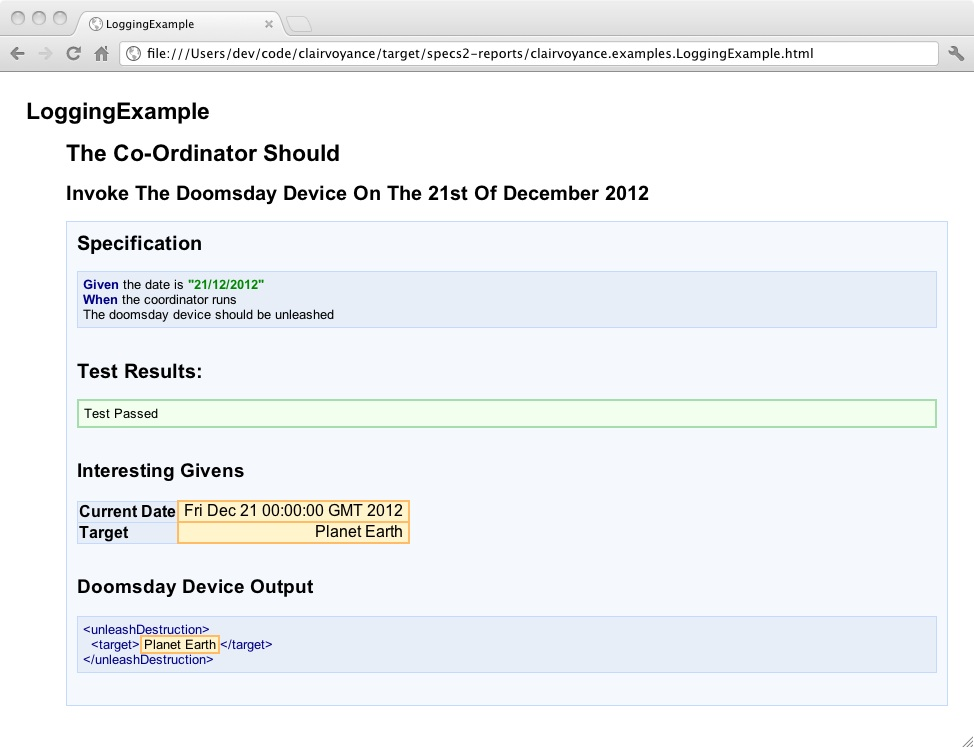
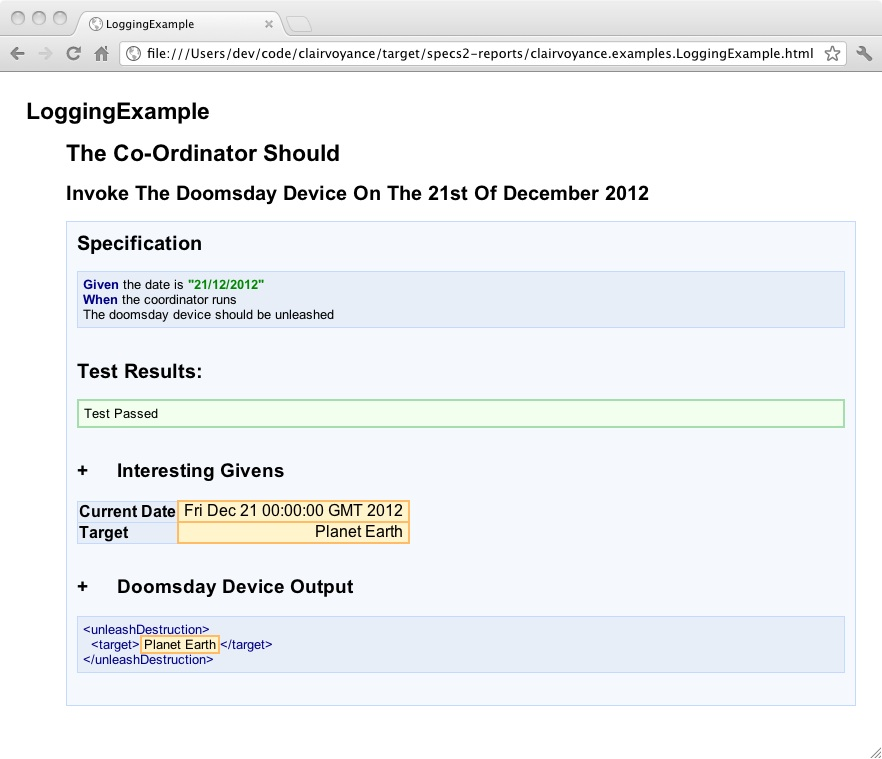
Fixed an issue where captured values were in the wrong sequence. Added a global ID generator to prevent this

diff --git a/src/main/resources/javascript/yatspec.js b/src/main/resources/javascript/yatspec.js
@@ -104,8 +104,15 @@ $(document).ready(function () {
                 ];
             }).get();
 
+        $('.logKey', this).prepend("<span class='toggle'>- </span>");
+
         $('.logKey', this).click(function() {
             $(this).next(".logValue").toggleClass("hide");
+        }
+        ).toggle( function() {
+            $(this).children("span").text("+ ");
+        }, function() {
+            $(this).children("span").text("- ");
         });
 
         $('.logKey', this).each(function() {

diff --git a/src/main/resources/css/yatspec.css b/src/main/resources/css/yatspec.css
@@ -212,3 +212,12 @@ dl.index-result {
     margin-left: 0px;
     margin-right: 5px;
 }
+
+.toggle {
+    float: left;
+    width: 40px;
+}
+
+.toggle:hover {
+    text-decoration: none;
+}
